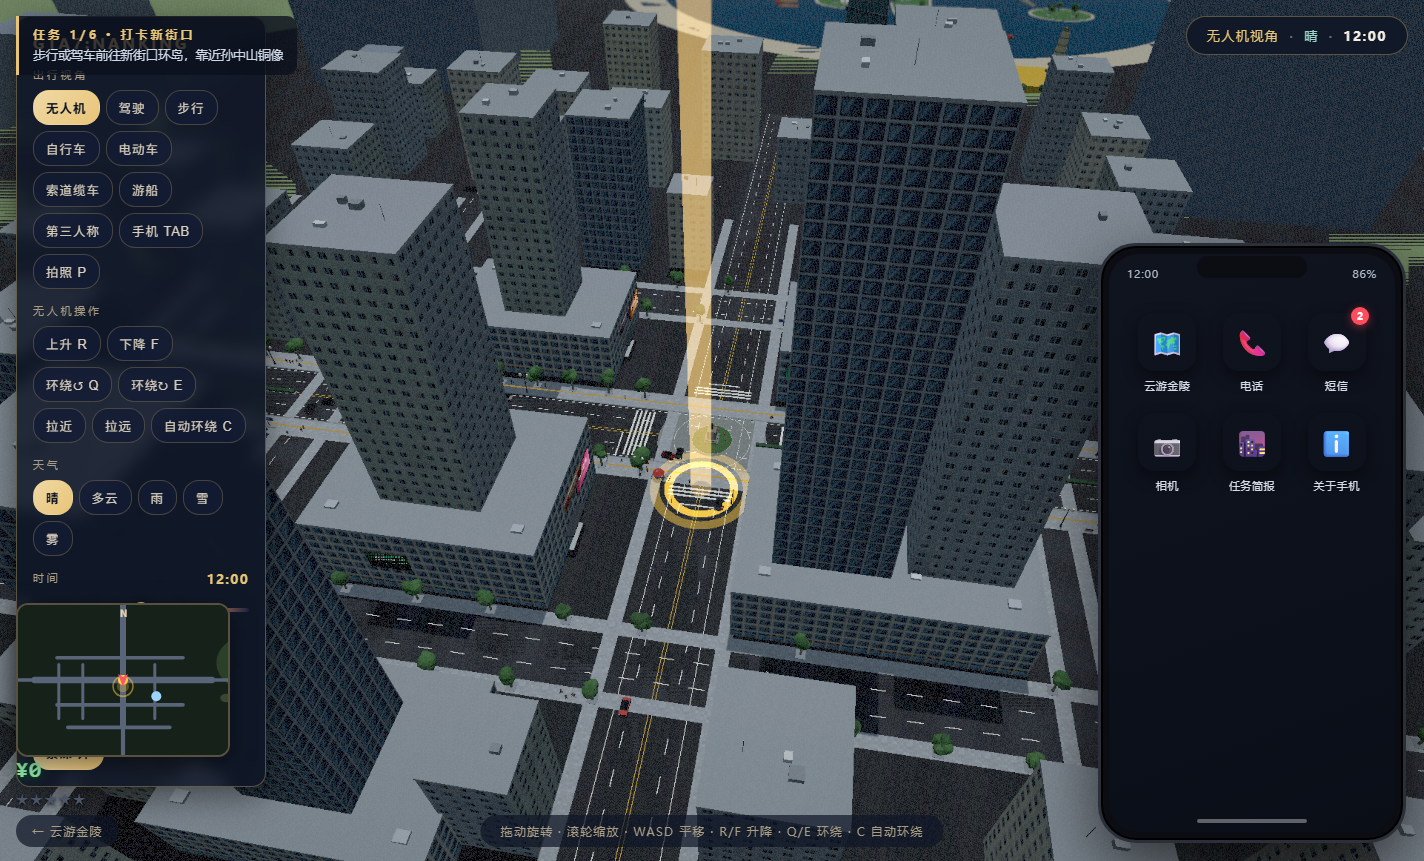
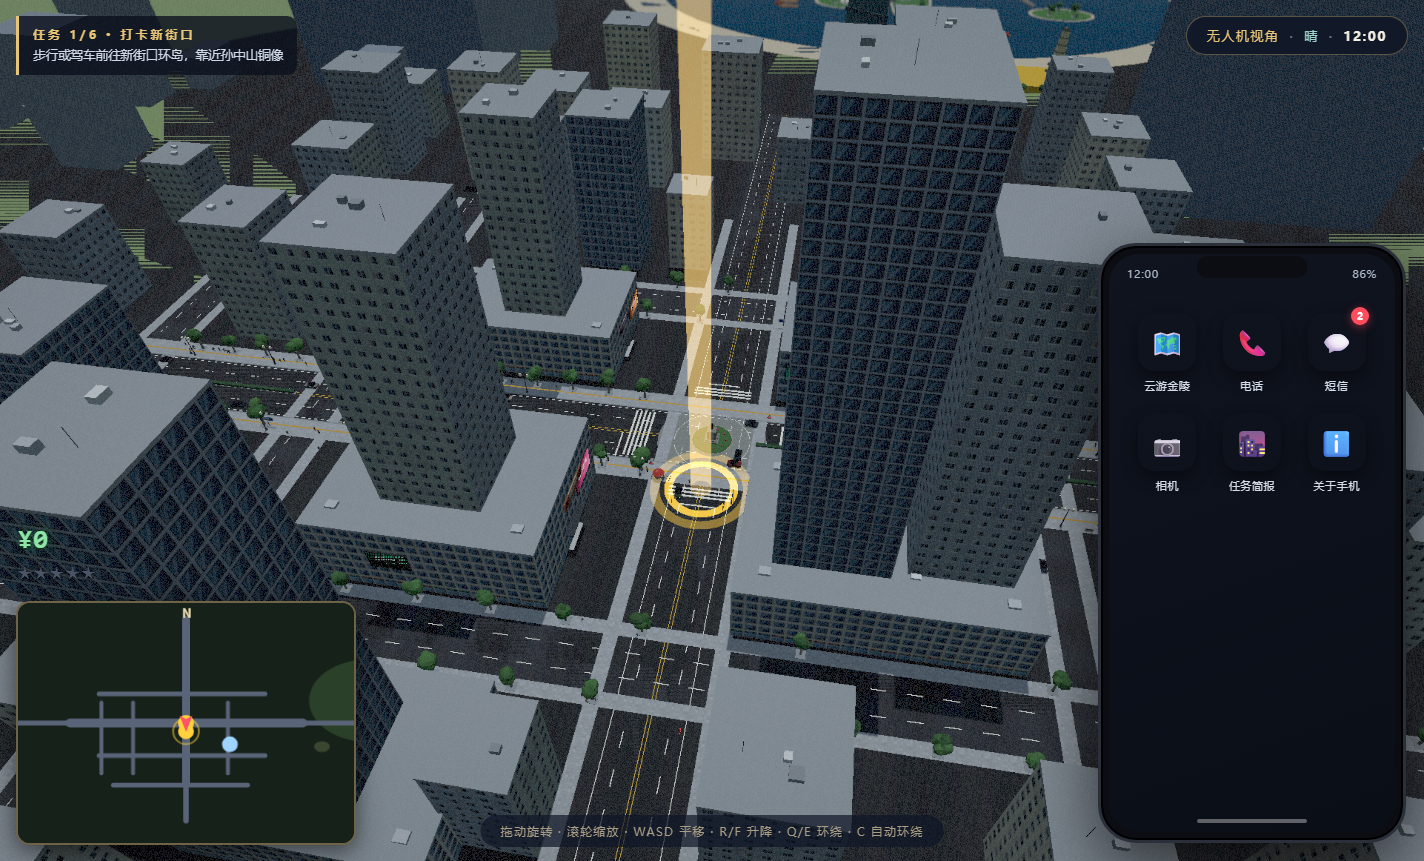
v1.2.0: 修复界面遮挡（控制面板移右上、左下角让位放大小地图+金钱HUD、手机打开联动隐藏面板）

diff --git a/game/js/gta.js b/game/js/gta.js
@@ -84,7 +84,7 @@ function drawMap(px,pz,heading){
   var cv=$("minimap");if(!cv)return;
   var g=cv.getContext("2d");
   var W=cv.width,H=cv.height,cx=W/2,cy=H/2;
-  var k=0.30; // px per meter
+  var k=0.40; // px per meter（地图放大后同步提高比例尺）
   g.clearRect(0,0,W,H);
   // 背景
   g.fillStyle="#16211a";g.fillRect(0,0,W,H);
@@ -113,29 +113,29 @@ function drawMap(px,pz,heading){
     g.lineWidth=Math.max(2,r[4]*k);
     g.beginPath();g.moveTo(wx(r[0]),wz(r[1]));g.lineTo(wx(r[2]),wz(r[3]));g.stroke();
   });
-  // 地标点
+  // 地标点（放大小地图后同步增大标记）
   MM_PTS.forEach(function(p){
     g.fillStyle=p.c;
-    g.beginPath();g.arc(wx(p.x),wz(p.z),p.s,0,7);g.fill();
+    g.beginPath();g.arc(wx(p.x),wz(p.z),p.s*1.6,0,7);g.fill();
   });
   // 任务信标
   if(started&&!completeAll&&MISSIONS[mi]){
     var m=MISSIONS[mi];
     var blink=0.6+0.4*Math.sin(performance.now()*0.005);
     g.fillStyle="rgba(255,210,62,"+blink.toFixed(2)+")";
-    g.beginPath();g.arc(wx(m.x),wz(m.z),6,0,7);g.fill();
-    g.strokeStyle="rgba(255,210,62,.5)";g.lineWidth=1.5;
-    g.beginPath();g.arc(wx(m.x),wz(m.z),10,0,7);g.stroke();
+    g.beginPath();g.arc(wx(m.x),wz(m.z),8,0,7);g.fill();
+    g.strokeStyle="rgba(255,210,62,.5)";g.lineWidth=2;
+    g.beginPath();g.arc(wx(m.x),wz(m.z),13,0,7);g.stroke();
   }
   // 玩家箭头
   var f={x:Math.sin(heading),z:Math.cos(heading)};
   g.save();g.translate(cx,cy);
   g.rotate(Math.atan2(f.x,-f.z));
   g.fillStyle="#ff5566";
-  g.beginPath();g.moveTo(0,-7);g.lineTo(5,6);g.lineTo(0,3);g.lineTo(-5,6);g.closePath();g.fill();
+  g.beginPath();g.moveTo(0,-9);g.lineTo(6.5,7.5);g.lineTo(0,4);g.lineTo(-6.5,7.5);g.closePath();g.fill();
   g.restore();
   // 北向标
-  g.fillStyle="#e8d9b0";g.font="bold 10px sans-serif";g.fillText("N",cx-3,12);
+  g.fillStyle="#e8d9b0";g.font="bold 13px sans-serif";g.fillText("N",cx-4,15);
 }
 
 /* ============ HUD ============ */

diff --git a/game/css/gta.css b/game/css/gta.css
@@ -44,18 +44,19 @@
   #boot-sub{font-size:18px;margin-top:16px}
 }
 
-/* ---------- 左下角 GTA HUD ---------- */
-#gta-hud{position:fixed;left:16px;bottom:52px;z-index:10;display:flex;flex-direction:column;gap:6px;pointer-events:none}
-#gta-money{font-size:22px;font-weight:900;letter-spacing:.04em;color:#8fe6a8;
+/* ---------- 左下角 GTA HUD（金钱/通缉 + 放大小地图；控制面板已移至右上避让） ---------- */
+#gta-hud{position:fixed;left:18px;bottom:278px;z-index:10;display:flex;flex-direction:column;gap:6px;pointer-events:none}
+#gta-money{font-size:26px;font-weight:900;letter-spacing:.04em;color:#8fe6a8;
   text-shadow:0 2px 0 #14301c,0 0 14px rgba(46,204,113,.4);font-family:Consolas,monospace}
 #gta-money.bump{animation:mbump .5s}
 @keyframes mbump{0%{transform:scale(1)}30%{transform:scale(1.25)}100%{transform:scale(1)}}
-#gta-stars{font-size:15px;letter-spacing:2px;color:#4a5568;text-shadow:0 1px 3px rgba(0,0,0,.8)}
+#gta-stars{font-size:17px;letter-spacing:2px;color:#4a5568;text-shadow:0 1px 3px rgba(0,0,0,.8)}
 #gta-stars.hot{color:#ff5566;text-shadow:0 0 10px rgba(255,60,80,.8)}
 #gta-stars .st-on{color:#ffd23e}
 
-#minimap{position:fixed;left:16px;bottom:104px;z-index:10;border-radius:12px;border:2px solid rgba(232,196,118,.35);
-  background:#0c1420;box-shadow:0 6px 24px rgba(0,0,0,.5)}
+#minimap{position:fixed;left:16px;bottom:16px;z-index:10;width:340px;height:244px;border-radius:14px;
+  border:2px solid rgba(232,196,118,.45);
+  background:#0c1420;box-shadow:0 6px 24px rgba(0,0,0,.55)}
 
 #gta-mission{position:fixed;left:16px;top:16px;z-index:10;max-width:340px;background:rgba(10,15,28,.78);
   border-left:3px solid #e8c476;border-radius:0 10px 10px 0;padding:10px 14px;pointer-events:none}
@@ -198,5 +199,6 @@
 
 @media (max-width:760px){
   #phone{width:262px;height:520px}
-  #minimap{width:160px;height:114px}
+  #minimap{width:230px;height:165px}
+  #gta-hud{bottom:190px}
 }

diff --git a/game/css/scene3d.css b/game/css/scene3d.css
@@ -8,9 +8,11 @@
 html,body{height:100%;overflow:hidden;background:#0a0f1c;font-family:var(--sans);color:var(--paper)}
 #gl{position:fixed;inset:0;display:block;width:100%;height:100%}
 
-/* 控制面板 */
-#panel{position:fixed;top:16px;left:16px;width:250px;background:rgba(14,21,38,.82);backdrop-filter:blur(8px);
-  border:1px solid var(--line);border-radius:14px;padding:16px;z-index:10;box-shadow:0 10px 32px rgba(0,0,0,.45)}
+/* 控制面板（右上，#hud 下方；左下角让位给小地图与金钱 HUD） */
+#panel{position:fixed;top:70px;right:16px;width:250px;background:rgba(14,21,38,.82);backdrop-filter:blur(8px);
+  border:1px solid var(--line);border-radius:14px;padding:16px;z-index:10;box-shadow:0 10px 32px rgba(0,0,0,.45);
+  max-height:calc(100vh - 90px);overflow-y:auto;transition:opacity .25s}
+body.phone-open #panel{opacity:0;pointer-events:none}
 #panel-title{font-size:15px;letter-spacing:.2em;color:var(--gold);margin-bottom:14px;font-weight:700}
 .ctl-group{margin-bottom:14px}
 .ctl-group:last-child{margin-bottom:0}
@@ -33,8 +35,9 @@ html,body{height:100%;overflow:hidden;background:#0a0f1c;font-family:var(--sans)
 #hud-mode{color:var(--gold)}#hud-wx{color:#9fd4c9}#hud-time{color:var(--paper);font-weight:700}
 #tips{position:fixed;bottom:14px;left:50%;transform:translateX(-50%);font-size:12px;color:#a99e85;
   letter-spacing:.1em;background:rgba(14,21,38,.7);padding:8px 20px;border-radius:18px;z-index:10;white-space:nowrap}
-#back{position:fixed;bottom:14px;left:16px;font-size:12px;color:#a99e85;text-decoration:none;letter-spacing:.1em;
+#back{position:fixed;bottom:14px;right:16px;font-size:12px;color:#a99e85;text-decoration:none;letter-spacing:.1em;
   background:rgba(14,21,38,.7);padding:8px 16px;border-radius:18px;z-index:10;transition:.2s}
+body.phone-open #back{opacity:0;pointer-events:none}
 #back:hover{color:var(--gold)}
 
 /* 加载 */

diff --git a/game/3d.html b/game/3d.html
@@ -100,7 +100,7 @@
   <div id="gta-money">¥<span id="gta-money-n">0</span></div>
   <div id="gta-stars"></div>
 </div>
-<canvas id="minimap" width="210" height="150"></canvas>
+<canvas id="minimap" width="340" height="244"></canvas>
 <div id="gta-mission"><b id="gta-m-title">准备进城…</b><span id="gta-m-desc">点击「进入城市」开始任务</span></div>
 <div id="gta-toast" class="off"></div>
 

diff --git a/game/js/phone.js b/game/js/phone.js
@@ -50,6 +50,7 @@ function toggle(){
   if(fullMap){exitFullMap();return;}
   open=!open;
   $("phone").classList.toggle("open",open);
+  document.body.classList.toggle("phone-open",open);
   if(!open){
     stopCall(false);
     closeView();            // 回桌面，暂停 iframe
